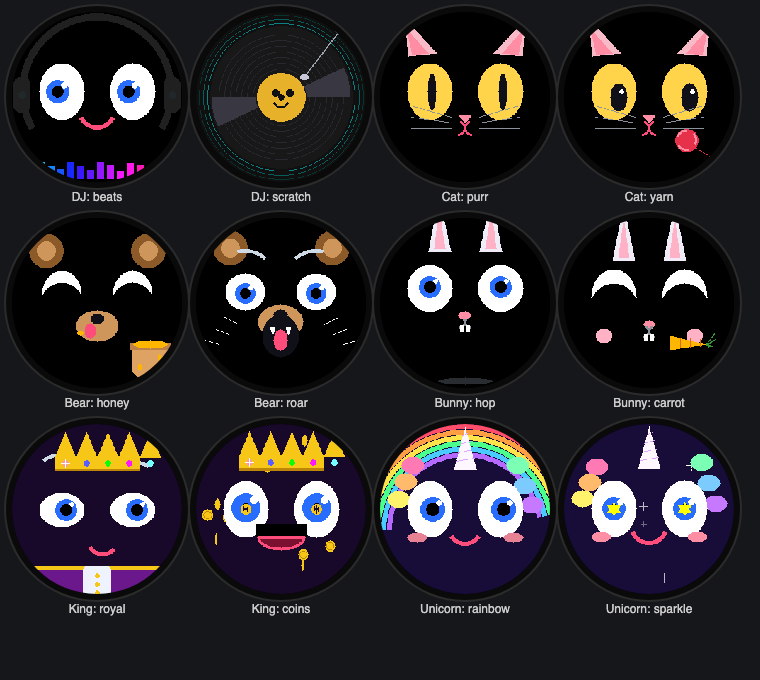
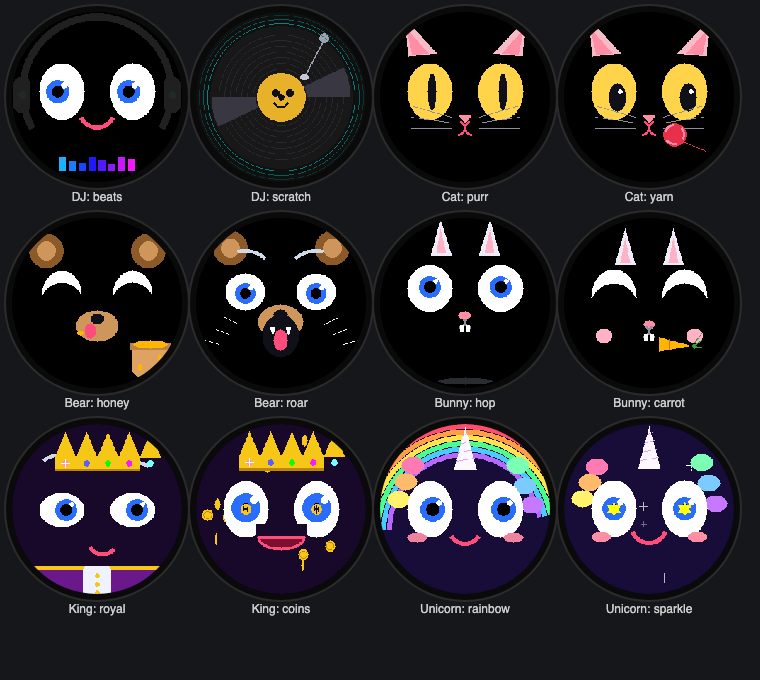
Review all animations: keep accessories inside the round area, face helpers blend against coloured backgrounds, raise Santa's hat

diff --git a/sim/animations/face_lib.js b/sim/animations/face_lib.js
@@ -18,7 +18,9 @@ window.Face = (() => {
     BLUSH: Sim.hex('#ff8fa3'),
     BROW: Sim.hex('#cfd8e3'),
     LX: 70, RX: 170, EY: 112, MY: 160,
+    background: null,   // set this at the start of frame() when the animation does not use a black background
   };
+  const bg = () => (F.background == null ? F.BG : F.background);
 
   /** Keyframe interpolation: pts = [[t0, v0], [t1, v1], ...] (t ascending), smoothstep between keys. */
   F.kf = (t, pts) => {
@@ -52,15 +54,15 @@ window.Face = (() => {
       g.fillCircle(px + (ir >> 1) + 1, py - (ir >> 1) - 1, Math.max(1, ir >> 2), F.SCLERA);
     }
     if (closed) {
-      g.fillEllipse(cx, cy, rx + 1, ry + 1, F.BG);
+      g.fillEllipse(cx, cy, rx + 1, ry + 1, bg());
       g.fillRoundRect(cx - rx + 4, cy + ry - 4, 2 * rx - 8, 4, 2, F.SCLERA);
     } else if (o.topLid > 0) {
-      g.fillRect(cx - rx - 1, cy - ry - 1, 2 * rx + 3, Math.round(2 * ry * o.topLid) + 1, F.BG);
+      g.fillRect(cx - rx - 1, cy - ry - 1, 2 * rx + 3, Math.round(2 * ry * o.topLid) + 1, bg());
     }
     if (o.squint > 0) {
       // cover the lower part with a background ellipse -> upward crescent
       const off = Math.round((2 * ry + 6) * (1 - o.squint) + ry * 0.55 * o.squint);
-      g.fillEllipse(cx, cy + off, rx + 4, ry + 2, F.BG);
+      g.fillEllipse(cx, cy + off, rx + 4, ry + 2, bg());
     }
   };
 
@@ -91,7 +93,7 @@ window.Face = (() => {
   F.grin = (g, cx, cy, w, h) => {
     g.fillEllipse(cx, cy, w, h, F.MOUTH);
     if (w > 5 && h > 5) g.fillEllipse(cx, cy, w - 4, h - 4, F.MOUTH_IN);
-    g.fillRect(cx - w - 1, cy - h - 1, 2 * w + 3, h + 1, F.BG);
+    g.fillRect(cx - w - 1, cy - h - 1, 2 * w + 3, h + 1, bg());
     g.fillRoundRect(cx - w, cy - 2, 2 * w + 1, 4, 2, F.MOUTH);
   };
 
@@ -103,7 +105,7 @@ window.Face = (() => {
 
   F.blush = (g, amount = 1, dx = 0, dy = 0) => {
     if (amount <= 0) return;
-    const col = Sim.lerp565(F.BG, F.BLUSH, Math.min(1, amount));
+    const col = Sim.lerp565(bg(), F.BLUSH, Math.min(1, amount));
     g.fillEllipse(F.LX - 18 + dx, F.EY + 40 + dy, 14, 7, col);
     g.fillEllipse(F.RX + 18 + dx, F.EY + 40 + dy, 14, 7, col);
   };

diff --git a/sim/animations/theme_dj.js b/sim/animations/theme_dj.js
@@ -17,9 +17,9 @@ Sim.register({
     const beat = Math.pow(Math.abs(Math.sin(t * Math.PI * 2)), 6);   // 120 bpm thump
     const dy = Math.round(-6 * beat);
     // equaliser bars along the bottom
-    for (let i = 0; i < 12; i++) {
-      const h = Math.round(8 + 30 * Math.abs(Math.sin(t * (3 + i * 0.7) + i)) * (0.5 + beat));
-      g.fillRect(36 + i * 14, 236 - h, 10, h, Sim.hsv(200 + i * 12, 0.9, 1));
+    for (let i = 0; i < 8; i++) {
+      const h = Math.round(6 + 26 * Math.abs(Math.sin(t * (3 + i * 0.7) + i)) * (0.5 + beat));
+      g.fillRect(66 + i * 14, 224 - h, 10, h, Sim.hsv(200 + i * 14, 0.9, 1));
     }
     const sq = F.kf(t, [[0.9, 0], [1.0, 1], [1.4, 1], [1.5, 0]]);
     F.eyes(g, { squint: sq, lookX: Math.round(6 * Math.sin(t * Math.PI)), iris: 16 }, 0, dy);
@@ -54,9 +54,9 @@ Sim.register({
     g.fillCircle(110 + look, 114, 5, Sim.hex('#101014')); g.fillCircle(130 + look, 114, 5, Sim.hex('#101014'));
     g.drawArc(120, 124, 12, 9, 110, 250, Sim.hex('#101014'));
     // tone arm
-    g.fillRoundRect(196, 20, 12, 12, 6, Sim.hex('#9aa0aa'));
+    g.fillRoundRect(174, 30, 14, 14, 7, Sim.hex('#9aa0aa'));
     const ax = 150 + Math.round(6 * scratch), ay = 90;
-    g.drawLine(202, 26, ax, ay, Sim.hex('#9aa0aa')); g.drawLine(203, 26, ax + 1, ay, Sim.hex('#9aa0aa')); g.drawLine(202, 27, ax, ay + 1, Sim.hex('#9aa0aa'));
+    g.drawLine(181, 37, ax, ay, Sim.hex('#9aa0aa')); g.drawLine(182, 37, ax + 1, ay, Sim.hex('#9aa0aa')); g.drawLine(181, 38, ax, ay + 1, Sim.hex('#9aa0aa'));
     g.fillRoundRect(ax - 6, ay - 2, 12, 8, 3, Sim.hex('#c0c6d0'));
     // wub rings when scratching
     if (Math.abs(scratch) > 0.3) for (let k = 0; k < 3; k++) g.drawCircle(120, 120, 104 + k * 6, Sim.lerp565(Sim.hex('#101014'), Sim.C.CYAN, Math.abs(scratch) * (1 - k / 3)));

diff --git a/sim/animations/theme_bunny.js b/sim/animations/theme_bunny.js
@@ -1,9 +1,9 @@
 /* Bunny theme (the long-ears build): a nose twitch and hop, and munching a carrot. */
 function bunnyEars(g, dy, lean, col, inner) {
   for (const s of [-1, 1]) {
-    const bx = 120 + s * 36, tx = bx + s * lean;
-    g.fillTriangle(bx - 16, 60 + dy, bx + 16, 60 + dy, tx, -20 + dy, col);
-    g.fillTriangle(bx - 8, 56 + dy, bx + 8, 56 + dy, tx, 0 + dy, inner);
+    const bx = 120 + s * 34, tx = bx + s * lean;
+    g.fillTriangle(bx - 15, 66 + dy, bx + 15, 66 + dy, tx, 14 + dy, col);
+    g.fillTriangle(bx - 7, 62 + dy, bx + 7, 62 + dy, tx, 28 + dy, inner);
   }
 }
 function bunnyFace(g, dy, F, opts) {
@@ -51,8 +51,8 @@ Sim.register({
     g.fillEllipse(F.LX - 14, 166, 12 + Math.round(4 * chew), 10, Sim.hex('#ffb3c6'));
     g.fillEllipse(F.RX + 14, 166, 12 + Math.round(4 * chew), 10, Sim.hex('#ffb3c6'));
     // carrot gets shorter over the loop
-    const len = Math.round(70 - 50 * f.p);
-    const cx = 150, cy = 176;
+    const len = Math.round(64 - 46 * f.p);
+    const cx = 134, cy = 178;
     g.fillTriangle(cx, cy - 10, cx, cy + 10, cx + len, cy + 2, Sim.C.ORANGE);
     for (let i = 1; i < 4; i++) g.drawLine(cx + i * 14, cy - 8 + i, cx + i * 14, cy + 8 - i, Sim.hex('#d96a10'));
     for (let k = -1; k <= 1; k++) g.fillTriangle(cx + len, cy + 2, cx + len + 14, cy - 6 + k * 10, cx + len + 4, cy + 2 + k * 4, Sim.hex('#3e9a3a'));

diff --git a/sim/animations/theme_cat.js b/sim/animations/theme_cat.js
@@ -50,7 +50,7 @@ Sim.register({
     const F = Face, t = f.t / 1000;
     g.clear(F.BG);
     // yarn ball bounces along the bottom; the eyes follow it
-    const bx = 120 + Math.round(90 * Math.sin(f.p * Math.PI * 2)), by = 206 - Math.round(26 * Math.abs(Math.sin(f.p * Math.PI * 6)));
+    const bx = 120 + Math.round(62 * Math.sin(f.p * Math.PI * 2)), by = 196 - Math.round(24 * Math.abs(Math.sin(f.p * Math.PI * 6)));
     const lookX = Math.round((bx - 120) / 8), lookY = 8;
     catEars(g, 0, 0, Sim.hex('#f2b8c6'), Sim.hex('#ff8fa3'));
     for (const cx of [F.LX, F.RX]) {
@@ -65,6 +65,6 @@ Sim.register({
     g.fillCircle(bx, by, 16, red);
     const rot = f.p * 720;
     for (let k = 0; k < 3; k++) g.drawArc(bx, by, 15, 12, (rot + k * 120) % 360, (rot + k * 120 + 70) % 360, Sim.hex('#ff8fa3'));
-    g.drawLine(bx + 12, by + 10, 236, 216 + Math.round(6 * Math.sin(t * 5)), red);
+    g.drawLine(bx + 12, by + 10, 200, 190 + Math.round(6 * Math.sin(t * 5)), red);
   },
 });

diff --git a/sim/animations/theme_xmas.js b/sim/animations/theme_xmas.js
@@ -10,6 +10,7 @@ Sim.register({
   frame(g, f) {
     const F = Face, t = f.t / 1000;
     g.clear(Sim.hex('#0b1a2e'));
+    F.background = Sim.hex('#0b1a2e');
     // snow (persistent positions, falling with a sway)
     for (let k = 0; k < 40; k++) {
       const speed = 25 + 30 * xr(k + 7);
@@ -23,10 +24,10 @@ Sim.register({
     F.smile(g, 120, F.MY + dy + 6, 30, 0.9, 6);
     F.blush(g, 0.8, 0, dy + 6);
     // hat: red cone with white brim and pompom, bobbing with the head
-    const hy = 30 + dy;
-    g.fillTriangle(48, hy + 48, 176, hy + 48, 150, hy - 10, Sim.hex('#d8202a'));
+    const hy = 16 + dy;
+    g.fillTriangle(48, hy + 48, 176, hy + 48, 140, hy - 4, Sim.hex('#d8202a'));
     g.fillRoundRect(40, hy + 40, 150, 18, 9, Sim.C.WHITE);
-    g.fillCircle(154 + Math.round(3 * Math.sin(t * 2)), hy - 10, 11, Sim.C.WHITE);
+    g.fillCircle(146 + Math.round(3 * Math.sin(t * 2)), hy + 2, 10, Sim.C.WHITE);
   },
 });
 

diff --git a/sim/lib/app.js b/sim/lib/app.js
@@ -132,6 +132,7 @@
   /** Run frame i of the current animation on the framebuffer. Returns its delay (ms). */
   function renderFrame(anim, i) {
     let delay;
+    if (window.Face) window.Face.background = null;
     try { delay = anim.frame(fb, frameInfo(anim, i)); }
     catch (e) { say(`${anim.name} frame ${i}: ${e.message}`, true); S.playing = false; }
     if (typeof delay !== 'number' || !(delay >= 0)) delay = 1000 / anim.fps;
@@ -470,6 +471,7 @@
         try { await anim.setup(fb, S.state); } catch (e) { errors.push(`setup: ${e.message}`); }
       }
       for (let i = 0; i < anim.frames && errors.length < 5; i++) {
+        if (window.Face) window.Face.background = null;
         try { anim.frame(fb, frameInfo(anim, i)); } catch (e) { errors.push(`frame ${i}: ${e.message}`); }
       }
     } finally {

diff --git a/sim/animations/theme_unicorn.js b/sim/animations/theme_unicorn.js
@@ -21,6 +21,7 @@ Sim.register({
   frame(g, f) {
     const F = Face, t = f.t / 1000;
     g.clear(Sim.hex('#1e0f3a'));
+    F.background = Sim.hex('#1e0f3a');
     // rainbow sweeps across the top
     const sweep = F.kf(t, [[0.3, 0], [1.8, 1], [3.6, 1], [4.0, 0]]);
     const cols = ['#ff4f6d', '#ff9f43', '#ffe14d', '#4dff88', '#4dc9ff', '#b56bff'].map(Sim.hex);
@@ -44,6 +45,7 @@ Sim.register({
   frame(g, f) {
     const F = Face, t = f.t / 1000;
     g.clear(Sim.hex('#1e0f3a'));
+    F.background = Sim.hex('#1e0f3a');
     const ur = n => (Math.sin(n * 33.1) * 43758.5453) % 1;
     for (let k = 0; k < 12; k++) {
       const u = ((t / 1.5) + ur(k + 1)) % 1, s = Math.round(2 + 6 * Math.sin(u * Math.PI));

diff --git a/sim/animations/theme_king.js b/sim/animations/theme_king.js
@@ -21,6 +21,7 @@ Sim.register({
   frame(g, f) {
     const F = Face, t = f.t / 1000;
     g.clear(Sim.hex('#1a0a2a'));
+    F.background = Sim.hex('#1a0a2a');
     const dy = Math.round(2 * Math.sin(t * 1.5));
     const smug = F.kf(t, [[0.8, 0], [1.2, 1], [3.0, 1], [3.5, 0]]);
     F.eyes(g, { open: 1 - 0.4 * smug, lookX: Math.round(6 * smug), iris: 15 }, 0, dy + 8);
@@ -46,6 +47,7 @@ Sim.register({
   frame(g, f) {
     const F = Face, t = f.t / 1000;
     g.clear(Sim.hex('#1a0a2a'));
+    F.background = Sim.hex('#1a0a2a');
     const kr = n => (Math.sin(n * 61.7) * 43758.5453) % 1;
     const gold = Sim.hex('#f0c419');
     // coins rain down behind the face

diff --git a/sim/animations/theme_space.js b/sim/animations/theme_space.js
@@ -20,6 +20,7 @@ Sim.register({
   frame(g, f) {
     const F = Face, t = f.t / 1000, bg = Sim.hex('#050816');
     g.clear(bg);
+    F.background = Sim.hex('#0d1326');   // inside the helmet
     stars(g, t, 50, bg);
     // slow drift of the whole buddy
     const dx = Math.round(6 * Math.sin(t * Math.PI * 2 / 5)), dy = Math.round(5 * Math.cos(t * Math.PI * 2 / 5));

diff --git a/sim/animations/theme_ocean.js b/sim/animations/theme_ocean.js
@@ -30,6 +30,7 @@ Sim.register({
   frame(g, f) {
     const F = Face, t = f.t / 1000;
     water(g, t);
+    F.background = Sim.hex('#06456a');
     // seaweed
     for (let k = 0; k < 6; k++) {
       const bx = 20 + k * 40;

diff --git a/sim/ANIMATIONS.md b/sim/ANIMATIONS.md
@@ -126,6 +126,7 @@ Layout constants: `Face.LX = 70`, `Face.RX = 170` (eye centres),
 | `Face.grin(g, cx, cy, halfWidth, depth)` | open grin, flat top, round bottom |
 | `Face.oMouth(g, cx, cy, rx, ry)` | open "o" mouth |
 | `Face.blush(g, amount, dx, dy)` | cheeks, amount 0..1 |
+| `Face.background = colour` | set at the start of `frame()` when the background is not black: lids, the grin's top edge and blush blend against it (reset automatically before each frame) |
 
 Existing face animations to learn from: `face_happy.js`, `face_sleepy.js`,
 `face_surprised.js`. A typical structure: compute a few 0..1 "amounts" with
